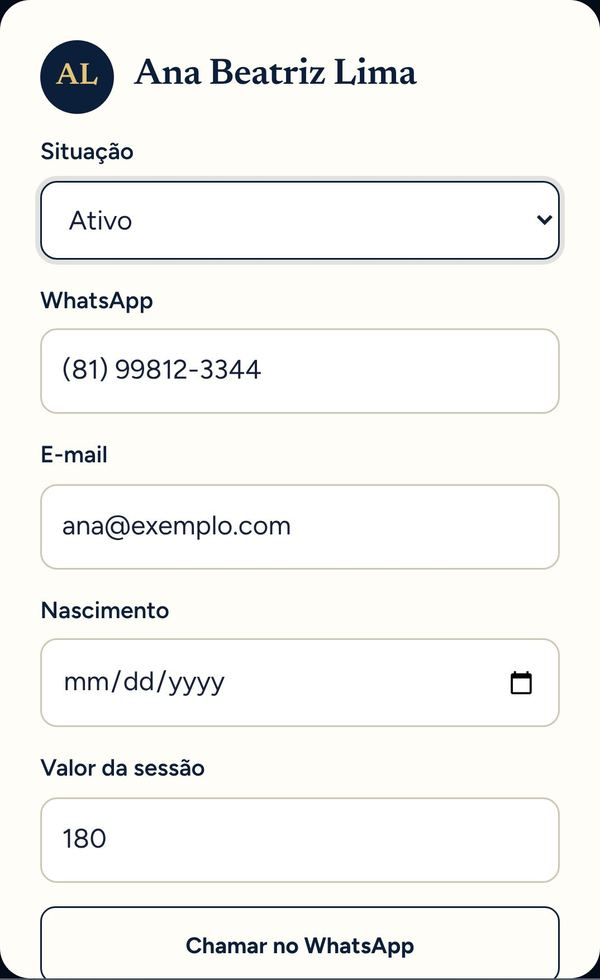
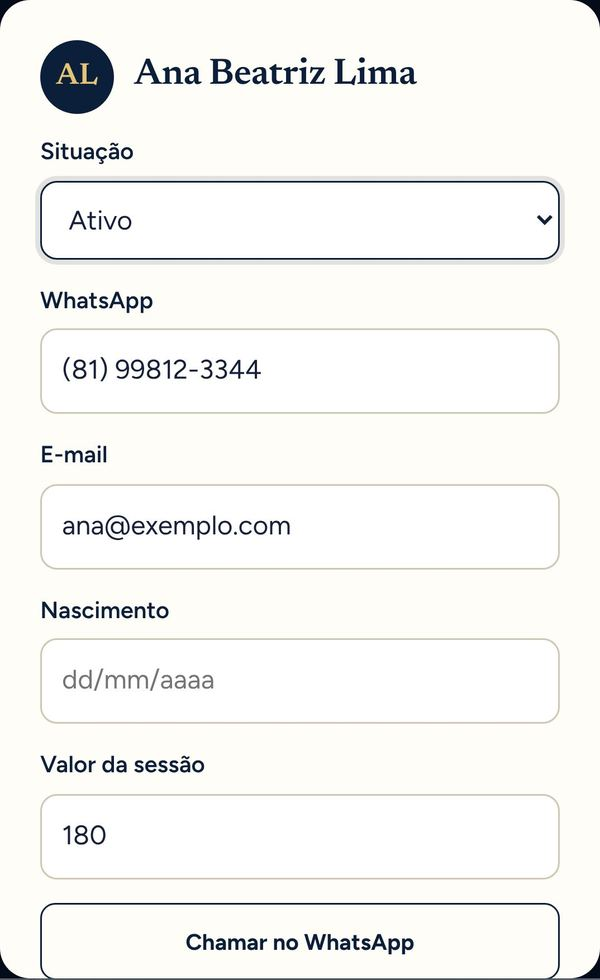
Página da Clínica Otimizada, retorno do pagamento e telas com datas no formato brasileiro
Claude-Session: https://claude.ai/code/session_01ABYTM9ydTnwZVq9ybeF7Jv

diff --git a/produtos/clinica/index.html b/produtos/clinica/index.html
@@ -1,0 +1,214 @@
+<!DOCTYPE html>
+<html lang="pt-BR">
+<head>
+<meta charset="utf-8">
+<meta name="viewport" content="width=device-width, initial-scale=1, viewport-fit=cover">
+<title>Clínica Otimizada · Ressignificar</title>
+<meta name="description" content="Clientes, sessões, pagamentos e anotações do seu consultório em um só lugar, e quem respondeu o seu teste vira cliente com um toque. R$ 97 por mês.">
+<meta name="theme-color" content="#0B1F3A">
+<meta property="og:title" content="Clínica Otimizada · Quantas sessões você atendeu e esqueceu de cobrar?">
+<meta property="og:description" content="O seu consultório organizado na Área de Membros da Ressignificar. Só você vê os seus clientes.">
+<meta property="og:image" content="https://ressignificarterapiaseconsultorias.com/produtos/img/clinica-lista.jpg">
+<link rel="icon" href="../../img/favicon.png">
+<link rel="preconnect" href="https://fonts.googleapis.com">
+<link rel="preconnect" href="https://fonts.gstatic.com" crossorigin>
+<link href="https://fonts.googleapis.com/css2?family=Newsreader:opsz,wght@6..72,500;6..72,600;6..72,700&family=Figtree:wght@400;500;600;700&display=swap" rel="stylesheet">
+<link rel="stylesheet" href="../../teste-de-travas/loja.css">
+<link rel="stylesheet" href="../produto.css">
+</head>
+<body>
+<header class="topo">
+  <div class="w">
+    <a class="marca" href="../../" aria-label="Ressignificar, ir para o site">
+      <img src="../../img/logo.png" alt="" width="36" height="36">
+      <span><b>Ressignificar</b><small>Terapias &amp; Consultorias</small></span>
+    </a>
+    <a class="voltar" href="?cliente=1#comprar">Já sou cliente →</a>
+  </div>
+</header>
+
+<main>
+<section class="hero">
+  <div class="w hero-grade">
+    <div>
+      <span class="selo">Clínica Otimizada · para terapeutas</span>
+      <h1>Quantas sessões você atendeu e <em>esqueceu de cobrar</em> este mês?</h1>
+      <p class="lead">Clientes, agenda, pagamentos e anotações do seu consultório em um só lugar, no celular. E quem respondeu o seu Teste de Travas vira cliente com um toque.</p>
+      <div class="cta-linha">
+        <a class="btn" href="#comprar">Quero o meu consultório organizado</a>
+        <small>R$ 97/mês · sem fidelidade · liberado na hora</small>
+      </div>
+      <div class="garantias"><span>Só você vê os seus clientes</span><span>Funciona no celular</span><span>Cancele quando quiser</span></div>
+    </div>
+    <div class="hero-telas" aria-hidden="true">
+      <div class="tela-pc"><img src="../img/clinica-lista.jpg" alt="" width="1200" height="915"></div>
+      <div class="celular"><img src="../img/clinica-agenda.jpg" alt="" width="600" height="1022"></div>
+    </div>
+  </div>
+</section>
+
+<section class="dores">
+  <div class="w">
+    <span class="olho" style="color:var(--gold2)">Seja sincera</span>
+    <h2>O seu consultório ainda vive no caderninho?</h2>
+    <ul class="lista-dor">
+      <li>Anotações de sessão espalhadas entre caderno, celular e memória.</li>
+      <li>Você não sabe na ponta do lápis quem está devendo sessão.</li>
+      <li>Precisa abrir a conversa do WhatsApp para lembrar o horário de alguém.</li>
+      <li>Quem fez o seu teste ficou esquecido e nunca virou cliente.</li>
+      <li>No fim do mês, não sabe quanto realmente recebeu.</li>
+      <li>Tem medo de perder informações sigilosas dos seus clientes.</li>
+    </ul>
+    <p class="virada">Você cuida tão bem dos seus clientes. Está na hora de algo cuidar do seu consultório.</p>
+  </div>
+</section>
+
+<section>
+  <div class="w">
+    <div class="centro">
+      <span class="olho">Como funciona</span>
+      <h2>Tudo do seu consultório, em 4 telas</h2>
+      <p class="lead">Estas são as telas reais da Clínica Otimizada, com clientes fictícios.</p>
+    </div>
+
+    <div class="passo">
+      <div>
+        <span class="n">1</span>
+        <h3>Todos os seus clientes, num relance</h3>
+        <p>Quem está ativo, quem pausou, quantas sessões cada um já fez, a próxima data marcada e quem está devendo. Os números do mês aparecem no topo.</p>
+        <p class="ganho">Você abre e sabe na hora: quantos clientes, quanto recebeu e quanto falta receber.</p>
+      </div>
+      <div class="tela-pc clara"><img src="../img/clinica-lista.jpg" alt="Tela Minha Clínica com clientes ativos, sessões no mês, valores a receber e recebidos e a lista de clientes" width="1200" height="915" loading="lazy"></div>
+    </div>
+
+    <div class="passo com-celular inverte">
+      <div>
+        <span class="n">2</span>
+        <h3>A ficha de cada cliente, sem papel</h3>
+        <p>Contato, valor da sessão, queixa principal e as suas anotações privadas. Um toque em "Chamar no WhatsApp" e a conversa abre.</p>
+        <p class="ganho">Só você vê. Nem a equipe Ressignificar tem acesso aos seus clientes.</p>
+      </div>
+      <figure class="celular claro"><img style="aspect-ratio:600/980" src="../img/clinica-ficha.jpg" alt="Ficha da cliente Ana Beatriz Lima com situação, WhatsApp, e-mail e valor da sessão" width="600" height="980" loading="lazy"></figure>
+    </div>
+
+    <div class="passo com-celular">
+      <div>
+        <span class="n">3</span>
+        <h3>Sessões, notas e pagamentos no mesmo lugar</h3>
+        <p>Marque a sessão, depois toque em "Realizada", "Faltou" ou "Recebi". Escreva a nota da sessão ali mesmo. O "a receber" se atualiza sozinho.</p>
+        <p class="ganho">Nenhuma sessão atendida fica sem cobrar.</p>
+      </div>
+      <figure class="celular claro"><img style="aspect-ratio:600/980" src="../img/clinica-sessoes.jpg" alt="Histórico de sessões com situação, valor, pagamento e nota privada" width="600" height="980" loading="lazy"></figure>
+    </div>
+
+    <div class="passo com-celular inverte">
+      <div>
+        <span class="n">4</span>
+        <h3>Quem fez o seu teste vira cliente com um toque</h3>
+        <p>Todo mundo que respondeu o seu Teste de Travas (ou outro teste seu) aparece aqui, com a trava mais forte e o contato. Um toque e a pessoa entra como cliente ativo, com o resultado ligado à ficha.</p>
+        <p class="ganho">O teste atrai, a Clínica organiza e você converte.</p>
+      </div>
+      <figure class="celular claro"><img style="aspect-ratio:600/1022" src="../img/clinica-testes.jpg" alt="Lista de pessoas que responderam o Teste de Travas, com o botão para trazer como cliente ativo" width="600" height="1022" loading="lazy"></figure>
+    </div>
+  </div>
+</section>
+
+<section class="faixa">
+  <div class="w">
+    <div class="centro"><span class="olho">E ainda vem junto</span><h2>Feito para a rotina de quem atende</h2></div>
+    <ul class="lista">
+      <li><b>Agenda da semana</b><small>As próximas sessões por dia, com hora e valor.</small></li>
+      <li><b>Lembrete do que ficou para trás</b><small>Sessões que já passaram e você ainda não marcou como realizada ou falta.</small></li>
+      <li><b>Situação de cada cliente</b><small>Ativo, pausado ou encerrado, com busca pelo nome.</small></li>
+      <li><b>Recebido e a receber do mês</b><small>Sem planilha e sem fazer conta.</small></li>
+      <li><b>Sigilo de verdade</b><small>Os registros são só seus, protegidos na sua conta.</small></li>
+      <li><b>Celular e computador</b><small>O mesmo acesso nos dois, sempre atualizado.</small></li>
+    </ul>
+    <div class="compara">
+      <div class="sem"><h3>Sem a Clínica Otimizada</h3><ul><li>Anotações espalhadas e difíceis de achar</li><li>Sessões atendidas que ninguém cobrou</li><li>Quem fez o teste esfria e some</li><li>Fim de mês sem saber quanto entrou</li></ul></div>
+      <div class="com"><h3>Com a Clínica Otimizada</h3><ul><li>Ficha e notas de cada cliente num toque</li><li>"A receber" sempre certo</li><li>Teste vira cliente ativo na hora</li><li>Recebido do mês na tela inicial</li></ul></div>
+    </div>
+  </div>
+</section>
+
+<section class="oferta">
+  <div class="w centro">
+    <span class="olho" style="color:var(--gold2)">Quanto custa</span>
+    <h2>Basta recuperar uma sessão esquecida para ela se pagar</h2>
+    <div class="ancora">
+      <div>Uma sessão esquecida de cobrar<b><s>R$ 150+</s></b>perdidos no mês</div>
+      <div>Caderno e WhatsApp<b>R$ 0</b>e tudo espalhado</div>
+      <div class="nossa">Clínica Otimizada<b>R$ 97</b>por mês, completa</div>
+    </div>
+    <p class="preco-grande"><b>R$ 97</b> <span>/mês</span></p>
+    <p class="por-dia">Cerca de R$ 3,20 por dia · sem fidelidade</p>
+  </div>
+</section>
+
+<section id="assinar">
+  <div class="w">
+    <div class="caixa" id="comprar" data-produto="clinica" data-nome="Clínica Otimizada" data-preco="R$ 97/mês">
+      <div class="resumo-compra"><b>Clínica Otimizada</b><span>R$ 97/mês</span></div>
+      <div class="logada" id="cLogada" hidden>
+        <span class="ini" id="cLogIni"></span>
+        <div>Olá, <b id="cLogNome"></b>! A Clínica vai para a sua conta.<small id="cLogEmail"></small><a href="#" id="cSair">Não é você? Entrar com outra conta</a></div>
+      </div>
+      <div class="compra-abas" id="cAbas" role="tablist" aria-label="Você já é cliente?">
+        <button type="button" role="tab" data-modo="nova" aria-selected="true">Sou nova por aqui</button>
+        <button type="button" role="tab" data-modo="cliente" aria-selected="false">Já sou cliente</button>
+      </div>
+      <div class="ja-cliente" id="cJaCliente" role="alert"><b>Você já é cliente da Ressignificar!</b><span id="cJaTxt"></span><br><button type="button" id="cIrLogin">Entrar com a minha senha</button></div>
+      <div class="pronto" id="cJaTem" hidden>
+        <div class="icone">✓</div>
+        <h3>Você já tem a Clínica Otimizada</h3>
+        <p class="dica" style="margin:8px 0 16px">Ela já está liberada na sua Área de Membros.</p>
+        <a class="btn" id="cJaTemLink" href="../../areademembros/minha-clinica.html">Abrir a minha clínica</a>
+      </div>
+      <form id="cForm" novalidate>
+        <div data-so="nova">
+          <div class="campo"><label for="cNome">Seu nome e sobrenome</label><input type="text" id="cNome" autocomplete="name" maxlength="80"></div>
+          <div class="campo"><label for="cEmail">E-mail</label><input type="email" id="cEmail" autocomplete="email" maxlength="120" inputmode="email"></div>
+          <div class="campo"><label for="cZap">WhatsApp</label><input type="tel" id="cZap" autocomplete="tel" inputmode="tel" placeholder="(81) 99999-9999"></div>
+          <div class="campo"><label for="cSenha">Crie uma senha para a Área de Membros</label><input type="password" id="cSenha" autocomplete="new-password" minlength="8"><p class="dica">Pelo menos 8 caracteres. Você vai usar para entrar na sua clínica.</p></div>
+        </div>
+        <div data-so="cliente" hidden>
+          <div class="campo"><label for="cEmailCli">E-mail da sua conta</label><input type="email" id="cEmailCli" autocomplete="username" maxlength="120" inputmode="email"></div>
+          <div class="campo"><label for="cSenhaCli">Sua senha</label><input type="password" id="cSenhaCli" autocomplete="current-password"></div>
+          <a class="esqueci" id="cEsqueci" href="#" target="_blank" rel="noopener">Esqueci a minha senha</a>
+        </div>
+        <div class="aviso" id="cAviso" role="alert"></div>
+        <button class="btn" type="submit" id="cBotao" style="width:100%">Assinar agora · R$ 97/mês</button>
+        <p class="seguro">🔒 Pagamento seguro pela InfinitePay · Pix ou cartão</p>
+        <p class="dica" style="text-align:center">Assim que o pagamento é confirmado, a Minha Clínica aparece na sua Área de Membros.</p>
+      </form>
+    </div>
+  </div>
+</section>
+
+<section class="faixa">
+  <div class="w faq" style="max-width:760px">
+    <h2 class="centro">Perguntas frequentes</h2>
+    <details><summary>Alguém além de mim vê os meus clientes?</summary><p>Não. Os seus clientes, sessões e anotações ficam presos à sua conta. Nenhum outro profissional, nem a equipe Ressignificar, tem acesso.</p></details>
+    <details><summary>Meus clientes precisam criar conta?</summary><p>Não. Você cadastra o cliente só com nome e contato. Ele não precisa baixar nada nem criar senha.</p></details>
+    <details><summary>Como trago quem fez o meu Teste de Travas?</summary><p>Na aba "Trazer dos testes" aparecem todas as pessoas que responderam os seus testes. Um toque e a pessoa vira cliente ativo, com o resultado ligado à ficha.</p></details>
+    <details><summary>Já sou cliente da Ressignificar. Preciso criar outra conta?</summary><p>Não. Toque em "Já sou cliente", entre com o seu e-mail e a sua senha, e a Clínica é adicionada na conta que você já tem.</p></details>
+    <details><summary>Como pago as próximas mensalidades?</summary><p>A primeira é paga agora, pelo Pix ou cartão. As próximas vencem no mesmo dia do mês e você recebe um e-mail antes, com o link para pagar.</p></details>
+    <details><summary>Posso cancelar?</summary><p>Pode, quando quiser, sem multa. É só falar com o Mauricio pelo WhatsApp.</p></details>
+    <p class="centro" style="margin-top:22px"><a class="btn wa" href="#" data-wa="Olá, Mauricio! Tenho uma dúvida sobre a Clínica Otimizada." style="width:auto">Tirar dúvida no WhatsApp</a></p>
+  </div>
+</section>
+</main>
+
+<footer><div class="w"><p><b>Ressignificar Terapias &amp; Consultorias</b> · <a href="../../politica-de-privacidade.html">Política de Privacidade</a></p></div></footer>
+
+<div class="barra" id="barra">
+  <a class="btn" href="#comprar">Assinar a Clínica · R$ 97/mês</a>
+  <a class="zap" href="#" data-wa="Olá, Mauricio! Tenho uma dúvida sobre a Clínica Otimizada." aria-label="Falar no WhatsApp"><svg viewBox="0 0 24 24" aria-hidden="true"><path d="M12 2a10 10 0 0 0-8.6 15.1L2 22l5-1.3A10 10 0 1 0 12 2zm5.8 14.2c-.2.7-1.4 1.3-2 1.4-.5.1-1.2.1-1.9-.1a17 17 0 0 1-1.8-.7c-3.1-1.3-5.1-4.5-5.3-4.7-.2-.2-1.3-1.7-1.3-3.2 0-1.5.8-2.3 1.1-2.6.3-.3.6-.4.8-.4h.6c.2 0 .4 0 .7.5l1 2.3c.1.2.1.4 0 .6l-.4.6-.5.5c-.2.2-.3.3-.1.6.2.3.8 1.4 1.8 2.2 1.2 1.1 2.3 1.4 2.6 1.6.3.1.5.1.7-.1l.9-1.1c.2-.3.4-.2.7-.1l2.2 1c.3.2.5.2.6.4.1.1.1.7-.1 1.3z"/></svg></a>
+</div>
+
+<script src="https://cdn.jsdelivr.net/npm/@supabase/supabase-js@2.45.4/dist/umd/supabase.min.js"></script>
+<script src="../../areademembros/js/config.js"></script>
+<script src="../../areademembros/js/auth.js"></script>
+<script src="../compra.js"></script>
+</body>
+</html>

diff --git a/produtos/obrigado/index.html b/produtos/obrigado/index.html
@@ -1,0 +1,105 @@
+<!DOCTYPE html>
+<html lang="pt-BR">
+<head>
+<meta charset="utf-8">
+<meta name="viewport" content="width=device-width, initial-scale=1, viewport-fit=cover">
+<title>Sua compra · Ressignificar</title>
+<meta name="robots" content="noindex">
+<meta name="theme-color" content="#0B1F3A">
+<link rel="icon" href="../../img/favicon.png">
+<link rel="preconnect" href="https://fonts.googleapis.com">
+<link rel="preconnect" href="https://fonts.gstatic.com" crossorigin>
+<link href="https://fonts.googleapis.com/css2?family=Newsreader:opsz,wght@6..72,500;6..72,600;6..72,700&family=Figtree:wght@400;500;600;700&display=swap" rel="stylesheet">
+<link rel="stylesheet" href="../../teste-de-travas/loja.css">
+</head>
+<body>
+<header class="topo">
+  <div class="w">
+    <a class="marca" href="../../" aria-label="Ressignificar, ir para o site">
+      <img src="../../img/logo.png" alt="" width="36" height="36">
+      <span><b>Ressignificar</b><small>Terapias &amp; Consultorias</small></span>
+    </a>
+  </div>
+</header>
+<main>
+<section>
+  <div class="w">
+    <div class="caixa">
+      <div id="eCarregando" class="passo-estado" role="status"><div class="girar" aria-hidden="true"></div><p id="txtCarregando">Confirmando o seu pagamento…</p></div>
+
+      <div id="ePronto" class="pronto" hidden>
+        <div class="icone">✓</div>
+        <h2 id="prontoTitulo" style="font-size:28px">Pronto!</h2>
+        <p class="lead" id="prontoTxt" style="margin:10px auto 18px"></p>
+        <a class="btn" id="prontoBtn" href="../../areademembros/" style="width:100%">Abrir agora</a>
+        <p class="dica" id="prontoDica" style="margin-top:12px"></p>
+      </div>
+
+      <div id="eAguardando" class="passo-estado" hidden>
+        <h2 style="font-size:26px">O pagamento ainda não foi concluído</h2>
+        <p class="lead" style="margin:8px auto 18px">Se você já pagou, aguarde alguns segundos e toque em "Conferir de novo". Se não, volte para o pagamento.</p>
+        <a class="btn" id="btnVoltarPagar" href="#" style="width:100%;margin-bottom:10px" hidden>Voltar para o pagamento</a>
+        <button class="btn line" type="button" id="btnConferir" style="width:100%">Conferir de novo</button>
+      </div>
+
+      <div id="eErro" class="passo-estado" hidden>
+        <h2 style="font-size:26px">Não encontramos esta compra</h2>
+        <p class="lead" style="margin:8px auto 18px" id="erroTxt">Confira se o link está completo, ou fale direto com o Mauricio que ele resolve na hora.</p>
+        <a class="btn wa" href="#" data-wa="Olá, Mauricio! Fiz uma compra no site e preciso de ajuda para acessar." style="width:100%">Falar no WhatsApp</a>
+      </div>
+    </div>
+  </div>
+</section>
+</main>
+<footer style="padding-bottom:30px"><div class="w"><p><b>Ressignificar Terapias &amp; Consultorias</b> · <a href="../../politica-de-privacidade.html">Política de Privacidade</a></p></div></footer>
+<script>
+(function () {
+  var FUNCAO = "https://gobjhepmnijoceirwgow.supabase.co/functions/v1/loja";
+  var ZAP = "5581992531561";
+  var $ = function (s) { return document.getElementById(s); };
+  var q = new URLSearchParams(location.search);
+  var token = (q.get("p") || "").toLowerCase();
+  if (!token) { try { token = localStorage.getItem("loja_pedido_dre") || localStorage.getItem("loja_pedido_clinica") || ""; } catch (e) {} }
+  var retorno = { transaction_nsu: q.get("transaction_nsu") || "", slug: q.get("slug") || "" };
+  var veioPago = !!retorno.transaction_nsu, tentativas = 0;
+  document.addEventListener("click", function (ev) {
+    var w = ev.target.closest && ev.target.closest("[data-wa]"); if (!w) return;
+    ev.preventDefault(); window.open("https://wa.me/" + ZAP + "?text=" + encodeURIComponent(w.getAttribute("data-wa")), "_blank", "noopener");
+  });
+  function mostrar(id) { ["eCarregando", "ePronto", "eAguardando", "eErro"].forEach(function (x) { $(x).hidden = x !== id; }); }
+  function conferir() {
+    mostrar("eCarregando");
+    fetch(FUNCAO, { method: "POST", headers: { "Content-Type": "application/json" }, body: JSON.stringify({ acao: "confirmar", token: token, transaction_nsu: retorno.transaction_nsu, slug: retorno.slug }) })
+      .then(function (r) { return r.json(); })
+      .then(function (j) {
+        if (!j.ok) { mostrar("eErro"); return; }
+        if (j.status === "ativado" && j.destino) {
+          try { localStorage.removeItem("loja_pedido_" + j.produto_chave); } catch (e) {}
+          $("prontoTitulo").textContent = "Pronto" + (j.nome ? ", " + j.nome : "") + "!";
+          $("prontoTxt").textContent = (j.produto || "O seu produto") + " já está liberado na sua Área de Membros.";
+          $("prontoBtn").href = j.destino;
+          $("prontoBtn").textContent = j.produto_chave === "clinica" ? "Abrir a minha clínica" : "Abrir a minha DRE";
+          $("prontoDica").textContent = "Se pedir login, entre com " + j.email + " e a sua senha. Também mandamos um e-mail com o link.";
+          mostrar("ePronto");
+          return;
+        }
+        if ((j.status === "pago" || veioPago) && tentativas < 12) {   // pagamento feito: a liberação leva alguns segundos
+          tentativas++; $("txtCarregando").textContent = "Pagamento recebido! Liberando o seu acesso…";
+          setTimeout(conferir, 3500); return;
+        }
+        if (j.status === "aguardando") {
+          if (j.checkout_url) { $("btnVoltarPagar").href = j.checkout_url; $("btnVoltarPagar").hidden = false; }
+          mostrar("eAguardando"); return;
+        }
+        $("erroTxt").textContent = "O seu pagamento foi recebido, mas a liberação não terminou. Fale com o Mauricio que ele libera na hora.";
+        mostrar("eErro");
+      })
+      .catch(function () { if (tentativas++ < 3) setTimeout(conferir, 3000); else mostrar("eErro"); });
+  }
+  $("btnConferir").addEventListener("click", function () { tentativas = 0; conferir(); });
+  if (!/^[0-9a-f-]{36}$/.test(token)) { mostrar("eErro"); return; }
+  conferir();
+})();
+</script>
+</body>
+</html>

diff --git a/produtos/dre/index.html b/produtos/dre/index.html
@@ -78,7 +78,7 @@
         <p>Escolha entrada, custo ou despesa. Coloque o valor, a conta e pronto. Dá para fazer entre um atendimento e outro, sem abrir o computador.</p>
         <p class="ganho">O plano de contas já vem pronto: aluguel, pró-labore, tráfego pago, taxas de cartão, impostos e mais.</p>
       </div>
-      <figure class="celular claro"><img src="../img/dre-lancar.jpg" alt="Tela de novo lançamento: entrada de R$ 1.380,00 em Prestação de serviços, produto Sessão individual" width="600" height="1315" loading="lazy"></figure>
+      <figure class="celular claro"><img style="aspect-ratio:600/1311" src="../img/dre-lancar.jpg" alt="Tela de novo lançamento: entrada de R$ 1.380,00 em Prestação de serviços, produto Sessão individual" width="600" height="1311" loading="lazy"></figure>
     </div>
 
     <div class="passo inverte">
